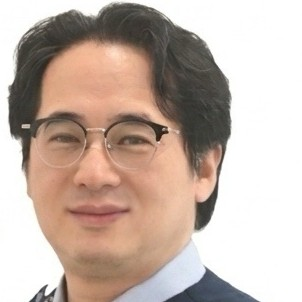
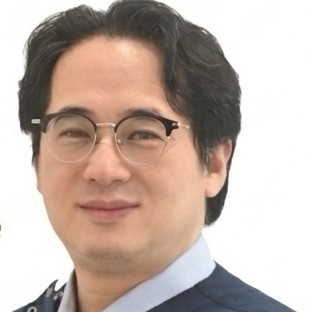
원장님 사진 라운드 사각형으로 변경 및 크롭 비율 수정

Changed region(s): [[0.0, 0.0, 0.7748, 1.0], [0.447, 0.8046, 0.9536, 1.0], [0.596, 0.1788, 0.6258, 0.2086]]

diff --git a/app/globals.css b/app/globals.css
@@ -357,9 +357,9 @@ nav.main a:hover {
 .value-photo {
   width: 230px;
   height: 230px;
-  border-radius: 50%;
+  border-radius: 14px;
   margin: 0 auto 26px;
-  border: 6px solid var(--gold-soft);
+  border: 1px solid var(--line);
   background: var(--white);
   display: flex;
   align-items: center;
@@ -628,12 +628,12 @@ footer.site {
   gap: 10px;
 }
 
-/* ---------- 의료진 (원형 사진) ---------- */
+/* ---------- 의료진 (사진) ---------- */
 .doctor-photo-circle {
   width: 100%;
   height: 100%;
   object-fit: cover;
-  border-radius: 50%;
+  border-radius: 12px;
 }
 .value-item .role {
   font-size: 12.5px;
@@ -729,10 +729,10 @@ footer.site {
 }
 .doctor-detail-photo img {
   width: 100%;
-  border-radius: 50%;
+  border-radius: 16px;
   aspect-ratio: 1 / 1;
   object-fit: cover;
-  border: 6px solid var(--gold-soft);
+  border: 1px solid var(--line);
 }
 .doctor-detail-info .role {
   font-size: 13px;
